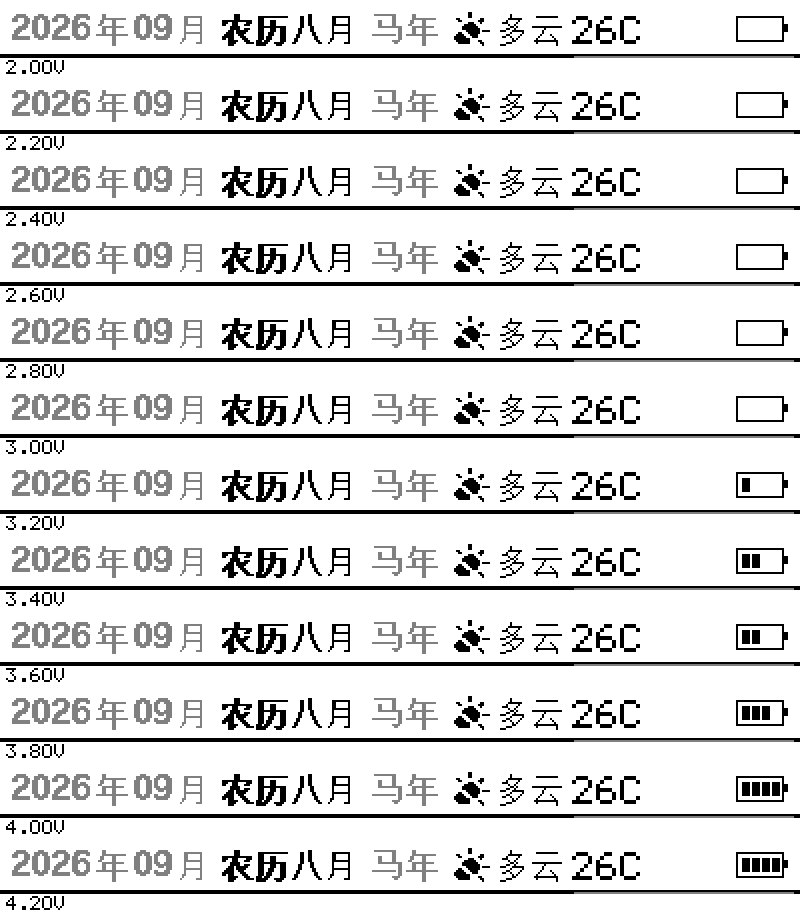
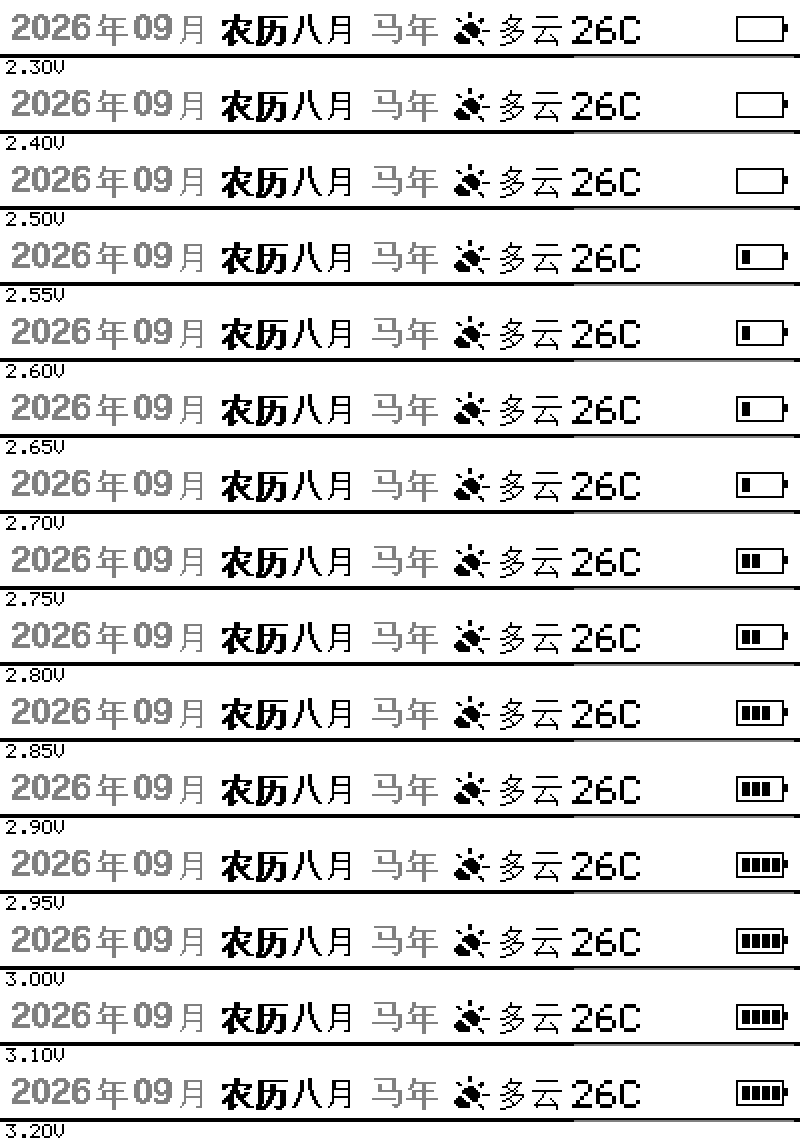
zk42v-epd: build 44 —— 电量曲线按 CR2450 来（满电 4 格）
这块价签是 2×CR2450（3.0V 标称），原来那条电量曲线是锂电的
（3.0V=0% / 4.2V=100%）—— 满电的 CR2450 会显示成空格，像该换电池了。

· 新增 Src/board/zk_bat_curve.h：CR2450 的分段线性曲线
  ≥3.00V=100% · 2.95=85 · 2.90=70 · 2.85=58 · 2.80=45 · 2.75=35
  · 2.70=25 · 2.65=16 · 2.60=8 · 2.55=3 · ≤2.50=0%（该换了）
  这张表**三个地方共用**：固件 zk_bat_pct()、主机预览 tools/gui_preview.c、
  对照图脚本 tools/bat_sheet.py（它从 .h 里抠表，不再另抄一份公式）。
  gui_preview 原来自己写了一条锂电公式 —— 所以之前那张对照图的图标全是空的，
  这次一并换成共用函数（gui_preview.py 的编译命令加 -I Src/board）。
· tools/test_bat.py（新，离线）：表单调、端点是满/空、中间插值、
  **3.00V 必须 4 格**（老曲线那个 bug 的回归测试）、以及"没有第二份曲线表"。
· bat_sheet.py 的扫点改成 CR2450 的 2.3~3.2V；重出
  docs/preview/preview-battery-levels.png。
· README build 44 段、backlog 第 13 条更新。

镜像：check_sum 0x00C814EE / 128732 字节 / 33 颗扇区 /
SHA-256 0453971b59482740ed757704ea7e9168ae515c9999aff9087b36085cb52a187f
固件 11 套自测全绿。

diff --git a/zk42v-epd/firmware/tools/test_bat.py b/zk42v-epd/firmware/tools/test_bat.py
@@ -1,0 +1,119 @@
+#!/usr/bin/env python3
+# -*- coding: utf-8 -*-
+"""
+离线自测电量曲线（Src/board/zk_bat_curve.h）—— 不用硬件。
+
+    python3 tools/test_bat.py
+
+为什么要这个：这块价签是 **2×CR2450**（3.0V 标称），曲线要是还照锂电写
+（3.0V=0% / 4.2V=100%），**满电的电池会显示成空格** —— 屏上看着像"该换了"。
+这条判据就是盯着这件事的：新电池（3.0V）必须 4 格。
+
+顺带钉死：
+  1  表里的电压从高到低、百分比从高到低（单调），不能出现"越充越少"
+  2  端点：>=3.00V 算满、<2.50V 算空
+  3  关键电压对应的格数（3.00V=4、2.90V=3、2.80V=2、2.70V=1、2.50V=0）
+  4  中间是线性插值（拿 2.925V 对一下）
+  5  固件（zk_bat.c）和主机预览（gui_preview.c）都 include 同一张表 ——
+     谁要是又抄了一份，这条会红
+"""
+
+import os
+import re
+import sys
+
+HERE = os.path.dirname(os.path.abspath(__file__))
+FW = os.path.dirname(HERE)
+IMG = os.path.join(FW, 'zk42v-epd-app', 'Src', 'img')
+BOARD = os.path.join(FW, 'zk42v-epd-app', 'Src', 'board')
+CURVE = os.path.join(BOARD, 'zk_bat_curve.h')
+
+CHECKS = []
+
+
+def check(label, ok):
+    CHECKS.append((label, bool(ok)))
+
+
+def read(path):
+    with open(path, encoding='utf-8', errors='replace') as f:
+        return f.read()
+
+
+def load_curve():
+    src = read(CURVE)
+
+    def grab(name):
+        m = re.search(name + r'\[[^\]]*\]\s*=\s*\{([^}]*)\}', src)
+        return [int(v) for v in re.findall(r'\d+', m.group(1))] if m else []
+
+    return grab('zk_bat_curve_mv_tab'), grab('zk_bat_curve_pct_tab')
+
+
+def pct_of(mv_tab, pct_tab, mv):
+    """跟 zk_bat_curve_pct() 同一套算法"""
+    if mv >= mv_tab[0]:
+        return 100
+    for i in range(1, len(mv_tab)):
+        if mv >= mv_tab[i]:
+            hi_mv, lo_mv = mv_tab[i - 1], mv_tab[i]
+            hi_pc, lo_pc = pct_tab[i - 1], pct_tab[i]
+            return lo_pc + (mv - lo_mv) * (hi_pc - lo_pc) // (hi_mv - lo_mv)
+    return 0
+
+
+def bars(pct):
+    """跟 zkgui.c 的 draw_battery() 同一条：0..4 格"""
+    return (pct + 24) // 25
+
+
+def main():
+    mv_tab, pct_tab = load_curve()
+    check('1: 曲线表读到了（%d 个点）' % len(mv_tab),
+          len(mv_tab) >= 5 and len(mv_tab) == len(pct_tab))
+    if len(mv_tab) != len(pct_tab) or len(mv_tab) < 5:
+        for label, ok in CHECKS:
+            print('  [%s] %s' % ('PASS' if ok else 'FAIL', label))
+        return 1
+
+    check('1: 电压从高到低（%d -> %d）' % (mv_tab[0], mv_tab[-1]),
+          all(mv_tab[i] > mv_tab[i + 1] for i in range(len(mv_tab) - 1)))
+    check('1: 百分比从高到低、不超过 100',
+          all(pct_tab[i] >= pct_tab[i + 1] for i in range(len(pct_tab) - 1))
+          and max(pct_tab) <= 100 and min(pct_tab) >= 0)
+
+    check('2: >=3.00V 算满（3.30V -> %d%%）' % pct_of(mv_tab, pct_tab, 3300),
+          pct_of(mv_tab, pct_tab, 3300) == 100)
+    check('2: <2.50V 算空（2.30V -> %d%%）' % pct_of(mv_tab, pct_tab, 2300),
+          pct_of(mv_tab, pct_tab, 2300) == 0)
+
+    want = [(3000, 4), (2950, 4), (2900, 3), (2850, 3), (2800, 2),
+            (2700, 1), (2500, 0)]
+    for mv, n in want:
+        p = pct_of(mv_tab, pct_tab, mv)
+        check('3: %d.%02dV -> %d 格（pct=%d）' % (mv / 1000, mv % 1000 // 10, n, p),
+              bars(p) == n)
+
+    # 4：插值（2.925V 夹在 2900/2950 之间，应在 70~85 之间）
+    mid = pct_of(mv_tab, pct_tab, 2925)
+    check('4: 2.925V 线性插值 = %d%%（应在 70~85 之间）' % mid, 70 <= mid <= 85)
+
+    # 5：固件和主机预览共用同一张表（别再各抄一份）
+    check('5: zk_bat.c include 了 zk_bat_curve.h',
+          'zk_bat_curve.h' in read(os.path.join(BOARD, 'zk_bat.c')))
+    check('5: gui_preview.c include 了 zk_bat_curve.h',
+          'zk_bat_curve.h' in read(os.path.join(HERE, 'gui_preview.c')))
+    check('5: zk_bat.c 里没有另抄一份曲线表',
+          'zk_bat_curve_mv_tab' not in read(os.path.join(BOARD, 'zk_bat.c')))
+
+    bad = 0
+    for label, ok in CHECKS:
+        print('  [%s] %s' % ('PASS' if ok else 'FAIL', label))
+        if not ok:
+            bad += 1
+    print('全部通过 ✅' if not bad else '%d 项失败 ❌' % bad)
+    return 1 if bad else 0
+
+
+if __name__ == '__main__':
+    sys.exit(main())

diff --git a/zk42v-epd/firmware/zk42v-epd-app/Src/board/zk_bat_curve.h b/zk42v-epd/firmware/zk42v-epd-app/Src/board/zk_bat_curve.h
@@ -1,0 +1,53 @@
+/*
+ * 电量曲线 —— **唯一真相**就在这个头文件里，三个地方都用它：
+ *
+ *   固件          Src/board/zk_bat.c        （zk_bat_pct() -> 表头那个电池图标）
+ *   主机预览      tools/gui_preview.c       （离线渲染表头，看到的就是屏上那几格）
+ *   对照图脚本    tools/bat_sheet.py        （把这张表抠出来画 2.3~3.2V 的对照图）
+ *
+ * 为什么按 CR2450：这块价签的供电是 **2× CR2450 电池夹**（见
+ * outputs/ZK42V-GR5513BEND-硬件判定与路线.md）。CR2450 是锂-二氧化锰，
+ * **3.0V 标称**：新电池 3.0~3.3V（空载），带轻载 2.9~3.0V，2.0V 是厂家标定的截止点。
+ * 早先照锂电写（3.0V=0% / 4.2V=100%）是错的 —— 那样满电的 CR2450 会显示 0 格。
+ *
+ * ⚠ 这条化学曲线**非常平**：八成容量都挤在 2.9~3.0V 那段，过了 2.6V 就"跳水"，
+ *   所以只能"看个大概"；而且 CR2450 内阻十几到几十欧，刷一屏那种脉冲会让端电压
+ *   瞬间跌 0.1~0.4V —— 同一颗电池"刷屏那一刻"和"闲着"读出来可能差一格。
+ */
+#ifndef __ZK_BAT_CURVE_H__
+#define __ZK_BAT_CURVE_H__
+
+/* "带载的端电压"(mV) -> 剩余电量(%)，从高到低；中间线性插值 */
+static const unsigned short zk_bat_curve_mv_tab[] = {
+    3000, 2950, 2900, 2850, 2800, 2750, 2700, 2650, 2600, 2550, 2500
+};
+static const unsigned char zk_bat_curve_pct_tab[] = {
+    100, 85, 70, 58, 45, 35, 25, 16, 8, 3, 0
+};
+#define ZK_BAT_CURVE_N  (sizeof(zk_bat_curve_mv_tab) / sizeof(zk_bat_curve_mv_tab[0]))
+
+/* 电压 -> 百分比（>=3.00V 算满，<2.50V 算空）。固件和主机预览共用这一个函数。 */
+static inline int zk_bat_curve_pct(int mv)
+{
+    unsigned i;
+
+    if (mv >= (int)zk_bat_curve_mv_tab[0])
+    {
+        return 100;
+    }
+    for (i = 1u; i < ZK_BAT_CURVE_N; i++)
+    {
+        if (mv >= (int)zk_bat_curve_mv_tab[i])
+        {
+            int hi_mv = (int)zk_bat_curve_mv_tab[i - 1u];
+            int lo_mv = (int)zk_bat_curve_mv_tab[i];
+            int hi_pc = (int)zk_bat_curve_pct_tab[i - 1u];
+            int lo_pc = (int)zk_bat_curve_pct_tab[i];
+
+            return lo_pc + (mv - lo_mv) * (hi_pc - lo_pc) / (hi_mv - lo_mv);
+        }
+    }
+    return 0;
+}
+
+#endif /* __ZK_BAT_CURVE_H__ */

diff --git a/zk42v-epd/firmware/zk42v-epd-app/Src/board/zk_bat.c b/zk42v-epd/firmware/zk42v-epd-app/Src/board/zk_bat.c
@@ -21,6 +21,7 @@
 #include "gr55xx_sys.h"                      /* sys_adc_trim_get / adc_trim_info_t */
 #include "gr55xx_hal_adc_vbat_api.h"         /* hal_adc_vbat_init/read */
 #include "gr55xx_hal_adc_temp_api.h"         /* hal_adc_temp_init/read */
+#include "zk_bat_curve.h"                    /* CR2450 的电量曲线（唯一真相） */
 
 /* VBAT 那一路的内部换算系数：ADC 输入 = 电池 / (27/7)。
    SDK 的 vbat api 里也是这个常数（见 projects/peripheral/adc/adc_temp_vbat 那份源码）。 */
@@ -189,21 +190,8 @@ int zk_bat_pct(void)
     {
         return -1;
     }
-    /* 锂电很粗的线性近似：3.0V -> 0%，4.2V -> 100%。
-       我们只是画个图标，不做电量计。 */
-    {
-        int pct = (mv - 3000) * 100 / 1200;
-
-        if (pct < 0)
-        {
-            pct = 0;
-        }
-        if (pct > 100)
-        {
-            pct = 100;
-        }
-        return pct;
-    }
+    /* CR2450 的电量曲线在 Src/board/zk_bat_curve.h（主机预览、对照图脚本共用同一张表） */
+    return zk_bat_curve_pct(mv);
 }
 
 int zk_bat_temp_c10(void)

diff --git a/zk42v-epd/tools/make-snapshot.py b/zk42v-epd/tools/make-snapshot.py
@@ -55,6 +55,8 @@ FILES = [
     ("outputs/firmware/tools/test_weather.py",                              "firmware/tools/test_weather.py"),
     ("outputs/firmware/tools/wx_sheet.py",                                  "firmware/tools/wx_sheet.py"),
     ("outputs/firmware/tools/header_zoom.py",                               "firmware/tools/header_zoom.py"),
+    ("outputs/firmware/zk42v-epd-app/Src/board/zk_bat_curve.h",               "firmware/zk42v-epd-app/Src/board/zk_bat_curve.h"),
+    ("outputs/firmware/tools/test_bat.py",                                    "firmware/tools/test_bat.py"),
     ("outputs/firmware/tools/bat_sheet.py",                                 "firmware/tools/bat_sheet.py"),
     ("outputs/firmware/docs/preview/preview-battery-levels.png",            "firmware/docs/preview/preview-battery-levels.png"),
     ("outputs/firmware/tools/weather_img.py",                               "firmware/tools/weather_img.py"),

diff --git a/zk42v-epd/firmware/tools/gui_preview.c b/zk42v-epd/firmware/tools/gui_preview.c
@@ -16,6 +16,7 @@
 #include <string.h>
 
 #include "zkgui.h"
+#include "zk_bat_curve.h"    /* 电量曲线：跟固件 zk_bat_pct() 共用同一张表 */
 
 #define GUARD 32
 
@@ -59,7 +60,7 @@ int main(int argc, char **argv)
 
         if (mv > 1000)                               /* 毫伏；0/负数 = 没读到 */
         {
-            int pct = (mv - 3000) * 100 / 1200;      /* 跟固件 zk_bat_pct() 一致 */
+            int pct = zk_bat_curve_pct(mv);          /* CR2450 的曲线，跟固件同一个函数 */
 
             info.bat_mv  = (int16_t)mv;
             info.bat_pct = (int8_t)(pct < 0 ? 0 : (pct > 100 ? 100 : pct));

diff --git a/zk42v-epd/firmware/zk42v-epd-app/Src/board/zk_dbg.h b/zk42v-epd/firmware/zk42v-epd-app/Src/board/zk_dbg.h
@@ -23,7 +23,7 @@
    ⚠ 这个数一直停在 31 —— build 32~41 忘了跟着 +1，结果状态块里的 `build = 31`
    跟 README 的「build 4x」对不上，刷机后没法一眼确认"新固件到底跑起来没有"。
    build 42 起跟 README 的里程碑号对齐（这一版就是 42）。 */
-#define ZK_BUILD_ID   43u
+#define ZK_BUILD_ID   44u
 
 /* B2-A：BLE 状态（写进状态块，status.sh 能读） */
 #define ZK_BLE_ST_OFF        0u

diff --git a/zk42v-epd/firmware/docs/feature-backlog.md b/zk42v-epd/firmware/docs/feature-backlog.md
@@ -84,7 +84,7 @@ async function sendcmd() {
 | 10 | 闹钟 / LED | ⬜ | — | **这块板没找到 LED**（逆向出来的 7 根脚全是屏的）。"闹钟"能做的等价物是"到点刷一帧 / 闪一下全屏"，跟第 6 条是同一套机制 |
 | 11 | 时钟页刷新策略 | ⬜ | 内部 | 现在是**每分钟全刷**（照原厂做，16 秒/次），当调试工具用就好。真当天钟用要局刷（第 5 条）或者改成"每 5 分钟一次"。**另注**：build 30 修掉了一个"屏每 4.5 分钟自己刷一次"的 bug（毫秒时基每 268 秒绕圈把"现在几点"算成 +49.7 天，固件以为换天了）—— 以后凡是"定时重画"的逻辑，都要用 `zk_tick_ms64()`（见 `Src/board/zk_tick.h`） |
 | 12 | 温度 | ✅ build 31（build 42 修通道） | 自动 | **芯片内部温度通道**（`ADC_INPUT_SRC_TMP` + SDK 的 `hal_adc_temp_read()`），表头右上角显示。⚠ build 42 才发现：ADC 的通道/参考共用一个寄存器 `AON->SNSADC_CFG`，**读之前必须重新 init 通道**，否则读的是别人 —— 详见 README build 42 |
-| 13 | 电池电量 | ✅ build 31（build 42 修准） | 自动 | **芯片内部 VBAT 通道**（`ADC_INPUT_SRC_BAT`）。build 42 修了两件事：① 读之前重新 init 通道（原来读的其实是温度二极管，所以一直显示 2.59V）② 参考从 SDK 的 0.85V（满量程 3.28V，锂电会削顶）换成 **1.28V**（满量程 ≈4.9V），并用出厂校准里 1.2V 那一对 slope/offset。状态块里现在有原始码值/两条路的读数/校准值，`status.sh` 全译出来 |
+| 13 | 电池电量 | ✅ build 31（42 修准、44 换曲线） | 自动 | **芯片内部 VBAT 通道**（`ADC_INPUT_SRC_BAT`）。build 42 修了两件事：① 读之前重新 init 通道（原来读的其实是温度二极管，所以一直显示 2.59V）② 参考从 SDK 的 0.85V（满量程 3.28V，锂电会削顶）换成 **1.28V**（满量程 ≈4.9V），并用出厂校准里 1.2V 那一对 slope/offset。build 44 把电量曲线从"锂电直线"换成 **CR2450 的分段曲线**（3.0V=100% / 2.5V=0%，表在 `Src/board/zk_bat_curve.h`，固件+预览+对照图共用；`tools/test_bat.py` 盯着"3.0V 必须 4 格"）。状态块里有原始码值/两条路的读数/校准值，`status.sh` 全译出来 |
 | 14 | 天气 | ✅ build 41 | `71 <码> [温度]` | 走 A 方案：**手机端（网页）取好天气再发下来**（我们只有 BLE，没有 WiFi）。表头「马年」右边画**图标 + 文字**（原来那格是"星期X"，已撤）；图标是从开源图标字体渲染的（Material Symbols + Font Awesome，"mix"方案，见 README build 41），文字用文泉驿点阵宋体 12pt。`71 02 1A` = 多云 26℃；温度是有符号整度，显示时**优先用手机给的天气温度**，没收到过才退回片内结温 |
 
 ## 2. 一条硬约束：镜像体积（做新功能前先看这个）

diff --git a/zk42v-epd/firmware/README.md b/zk42v-epd/firmware/README.md
@@ -1,5 +1,41 @@
 # ZK42V 自研固件（方向 B）第一版：把屏点亮
 
+> **2026-09-29 build 44 —— 电量曲线换成 CR2450（满电就该是 4 格）**
+>
+> 你定的"按 CR2450 的曲线来"改完了。原来那条是**锂电**的（3.0V=0% / 4.2V=100%），
+> 套在 CR2450 上是错的：这块价签用的是 **2× CR2450 电池夹**（3.0V 标称），
+> 照老曲线**满电会显示成空格**，像该换电池了。
+>
+> 现在是一条**分段线性**的表（Li-MnO₂ 的曲线很平：八成容量都挤在 2.9~3.0V，
+> 过了 2.6V 就"跳水"）：
+>
+> | 端电压 | 电量 | 图标 |
+> |---|---|---|
+> | ≥3.00V | 100% | ■■■■ |
+> | 2.95V | 85% | ■■■■ |
+> | 2.90V | 70% | ■■■ |
+> | 2.85V | 58% | ■■■ |
+> | 2.80V | 45% | ■■ |
+> | 2.75V | 35% | ■■ |
+> | 2.70V | 25% | ■ |
+> | 2.60V | 8% | ■ |
+> | ≤2.50V | 0% | □□□□（该换电池了） |
+>
+> * 表在 **`Src/board/zk_bat_curve.h`**，**三个地方共用同一份**：固件 `zk_bat_pct()`、
+>   主机预览 `tools/gui_preview.c`、对照图脚本 `tools/bat_sheet.py`。
+>   （上一版是"固件一份公式、预览另抄一份"，这次没再犯 —— `tools/test_bat.py`
+>   里有一条判据专门盯"别再抄第二份"。）
+> * **新判据**（`tools/test_bat.py`，不用硬件）：表单调、端点是满/空、中间线性插值，
+>   以及**3.00V 必须 4 格** —— 这条就是"老曲线那个 bug"的回归测试。
+> * **对照图**：`python3 tools/bat_sheet.py` → `docs/preview/preview-battery-levels.png`
+>   （2.3V~3.2V 每档一行，表头 + 电压标签）。
+> * **实机扫**：网页「发送命令」敲 `72`（立刻重读电池 + 重画一页，回通知 `bat=.. pct=..`）。
+> * ⚠ 还是那句话：CR2450 内阻十几到几十欧，**刷一屏那种脉冲会让端电压瞬跌 0.1~0.4V**，
+>   同一颗电池"刷屏那一刻"和"闲着"读出来可能差一格 —— 判断电量以"刚开机/空闲"那次为准。
+>
+> 镜像：SHA-256 `0453971b…b52a187f`，`check_sum = 0x00C814EE`，**128732 字节**，33 颗扇区。
+> 固件 **11 套自测全绿**（新加 `test_bat.py`）。
+
 > **2026-09-29 build 43 —— 表头收尾：温度跟天气走，电池只留图标**
 >
 > 按你说的两处改完，表头就是：
